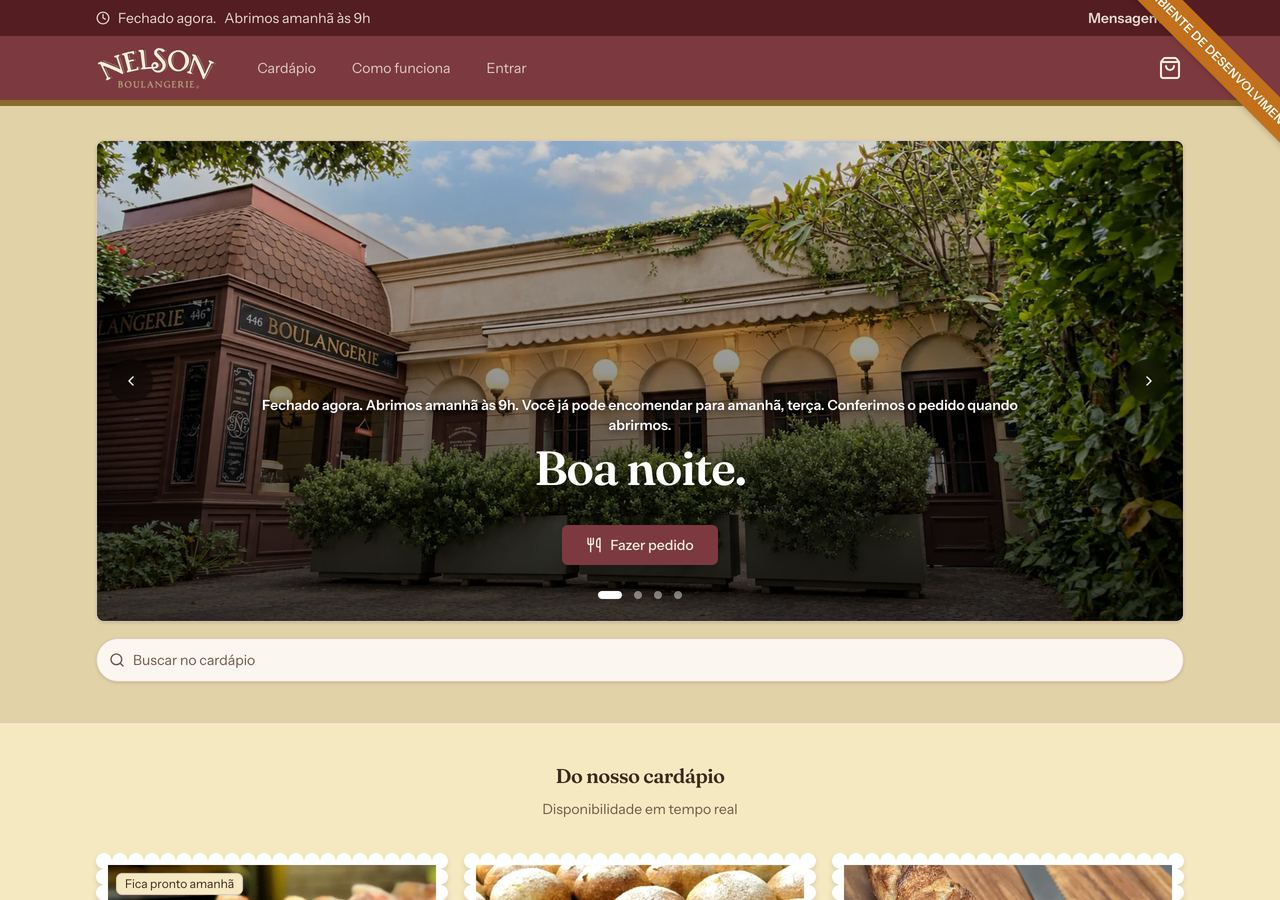
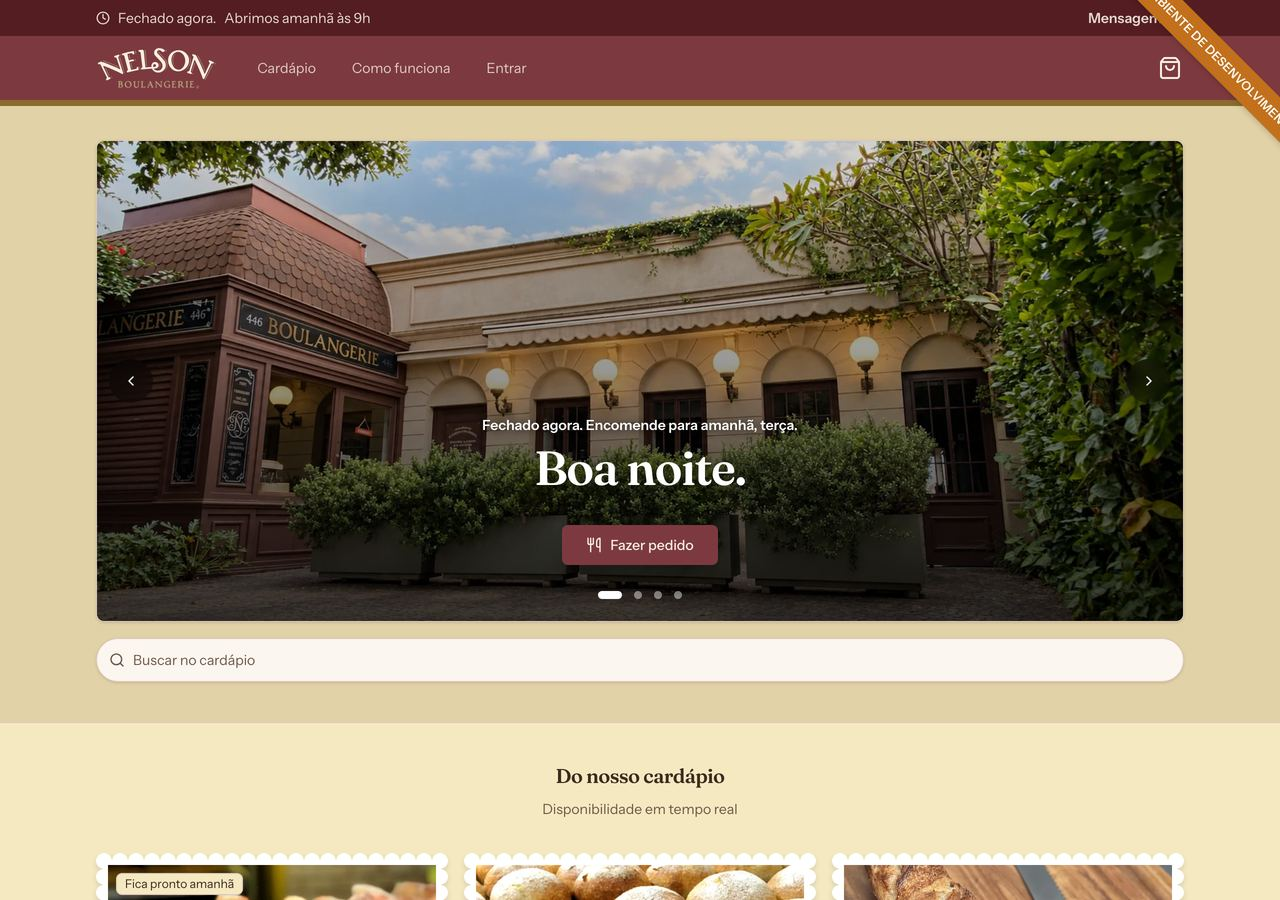
OC-04: frases curtas (dono na prévia: "MUUUITO prolixo")
- Hero fechado: "Fechado agora. Já dá para pedir." / "Fechado agora.
  Encomende para amanhã, terça." A hora da abertura já está na faixa do topo.
- Nada para pedir: "Hoje não há encomenda aberta. Toque em “Me avise” no item."
- Sacola vazia sem encomenda: "Toque em “Me avise” no item do cardápio."
- Faceta: "Encomendas com até {window} de antecedência."
- Capturas e auditoria refeitas (now/preorder/none, 375 e desktop).

Compromisso: DEV-2026-085

Changed region(s): [[0.1875, 0.4356, 0.8125, 0.4978]]

diff --git a/surfaces/storefront-nuxt/app/presentation/home.ts b/surfaces/storefront-nuxt/app/presentation/home.ts
@@ -1,27 +1,28 @@
 import type { OrderingProjection } from '~/types/shopman'
 
-// O topo da home diz o estado da casa E o que dá para fazer, e o "o que dá para
-// fazer" sai de `home.ordering` (OC-04), o resumo das MESMAS promessas que os
-// cards do cardápio dizem. Era uma constante: às 22h, com 0 de 31 itens podendo
-// ir à sacola, a home dizia "Você já pode finalizar o pedido" (laudo da Etapa II,
-// U1). Com a casa fechada, a finalização aceita pedido e pagamento e a casa
-// confere na abertura (ADR-036); a frase usa o mesmo vocabulário do pagamento
-// fora do horário ("conferimos quando abrirmos").
+// O topo da home diz o que dá para fazer, e isso sai de `home.ordering` (OC-04),
+// o resumo das MESMAS promessas que os cards do cardápio dizem. Era uma
+// constante: às 22h, com 0 de 31 itens podendo ir à sacola, a home dizia "Você
+// já pode finalizar o pedido" (laudo da Etapa II, U1). Com a casa fechada, o
+// pedido entra e a casa confere na abertura (ADR-036).
+//
+// Curto de propósito (dono, prévia de 24/11: "MUUUITO prolixo"): a hora da
+// abertura já está na faixa do topo, então aqui vai só "Fechado agora." e o
+// que fazer.
 
-// Algo tem horário hoje (a casa ainda abre hoje): dá para finalizar já.
-export const CLOSED_HERO_HINT = 'Você já pode finalizar o pedido, e conferimos quando abrirmos.'
+// Algo tem horário hoje (a casa ainda abre hoje).
+export const CLOSED_HERO_HINT = 'Já dá para pedir.'
 
-// Nada do cardápio pode ir à sacola: diz isso e aponta o caminho que existe, o
-// "Me avise" de cada item. Nunca promete finalização.
-export const NO_ORDERING_HINT = 'Hoje não há encomenda aberta. No cardápio, toque em “Me avise” no item que você quer.'
+// Nada do cardápio pode ir à sacola: diz isso e aponta o "Me avise" de cada
+// item. Nunca promete finalização.
+export const NO_ORDERING_HINT = 'Hoje não há encomenda aberta. Toque em “Me avise” no item.'
 
 // O primeiro horário é de outro dia: a frase diz qual ("amanhã, terça").
 export function preorderHint (dayLabel: string): string {
-  return `Você já pode encomendar para ${dayLabel}. Conferimos o pedido quando abrirmos.`
+  return `Encomende para ${dayLabel}.`
 }
 
-function orderingHint (ordering: OrderingProjection | null | undefined, statusOpen: boolean): string {
-  if (!ordering) return ''
+function orderingHint (ordering: OrderingProjection, statusOpen: boolean): string {
   if (ordering.state === 'none') return NO_ORDERING_HINT
   if (statusOpen) return ''
   if (ordering.state === 'preorder' && ordering.day_label.trim()) return preorderHint(ordering.day_label.trim())
@@ -31,21 +32,24 @@ function orderingHint (ordering: OrderingProjection | null | undefined, statusOp
 /**
  * A linha acima do título do hero, ou `undefined` quando não há o que dizer.
  *
- * Casa fechada: o estado ("Fechado agora. Abrimos amanhã às 9h") seguido do que
- * dá para fazer, pelo `ordering`. Casa aberta: só quando nada pode ser pedido.
- * Sem `ordering` (resposta sem o campo), só o estado: a frase nunca promete o
- * que a projeção não confirmou.
+ * Nada encomendável (aberta ou fechada): só isso e o "Me avise". Casa fechada
+ * com o que pedir: a primeira frase do estado ("Fechado agora") e o que fazer.
+ * Casa aberta com o que pedir: nada. Sem `ordering` (resposta sem o campo), só
+ * o estado inteiro: a frase nunca promete o que a projeção não confirmou.
  */
 export function heroEyebrow (input: {
   statusOpen: boolean
   statusLabel?: string | null
   ordering?: OrderingProjection | null
 }): string | undefined {
+  const label = input.statusLabel?.trim().replace(/\.+$/, '') || ''
+  if (!input.ordering) {
+    return input.statusOpen || !label ? undefined : `${label}.`
+  }
   const hint = orderingHint(input.ordering, input.statusOpen)
-  if (input.statusOpen) return hint || undefined
-  const label = input.statusLabel?.trim().replace(/\.+$/, '')
-  const parts = [label ? `${label}.` : '', hint].filter(Boolean)
-  return parts.length ? parts.join(' ') : undefined
+  if (input.ordering.state === 'none' || input.statusOpen) return hint || undefined
+  const state = label.split('. ')[0]?.trim()
+  return state ? `${state}. ${hint}` : hint
 }
 
 /**

diff --git a/surfaces/storefront-nuxt/tests/homePresentation.test.ts b/surfaces/storefront-nuxt/tests/homePresentation.test.ts
@@ -14,14 +14,14 @@ const NONE: OrderingProjection = { state: 'none', next_date: null, day_label: ''
 const CLOSED = 'Fechado agora. Abrimos amanhã às 9h'
 
 // Toda frase que convida a pedir (finalizar, encomendar, fazer pedido).
-const ORDER_OFFER = /finalizar|encomendar para|Fazer pedido/
+const ORDER_OFFER = /finalizar|encomendar para|Encomende|dá para pedir|Fazer pedido/
 
 describe('home presentation: o topo diz só o que dá para pedir (OC-04)', () => {
   it('X1: com nada encomendável, a home não oferece finalização, aberta ou fechada', () => {
     const closed = heroEyebrow({ statusOpen: false, statusLabel: CLOSED, ordering: NONE })
     const open = heroEyebrow({ statusOpen: true, statusLabel: 'Aberto até 18h', ordering: NONE })
 
-    expect(closed).toBe(`Fechado agora. Abrimos amanhã às 9h. ${NO_ORDERING_HINT}`)
+    expect(closed).toBe('Hoje não há encomenda aberta. Toque em “Me avise” no item.')
     expect(open).toBe(NO_ORDERING_HINT)
     for (const text of [closed, open]) {
       expect(text).not.toMatch(ORDER_OFFER)
@@ -31,22 +31,22 @@ describe('home presentation: o topo diz só o que dá para pedir (OC-04)', () =>
     expect(closedHeroCtaLabel(NONE)).toBeUndefined()
   })
 
-  it('casa fechada que ainda abre hoje: dá para finalizar já, e a casa confere na abertura', () => {
+  it('casa fechada que ainda abre hoje: já dá para pedir (a hora da abertura fica na faixa do topo)', () => {
     expect(heroEyebrow({ statusOpen: false, statusLabel: 'Fechado agora. Abrimos hoje às 7h', ordering: NOW }))
-      .toBe('Fechado agora. Abrimos hoje às 7h. Você já pode finalizar o pedido, e conferimos quando abrirmos.')
+      .toBe('Fechado agora. Já dá para pedir.')
     expect(closedHeroCtaLabel(NOW)).toBe('Fazer pedido')
   })
 
   it('casa fechada com encomenda para outro dia: a frase diz o dia', () => {
     expect(heroEyebrow({ statusOpen: false, statusLabel: `${CLOSED}.`, ordering: PREORDER }))
-      .toBe('Fechado agora. Abrimos amanhã às 9h. Você já pode encomendar para amanhã, quarta. Conferimos o pedido quando abrirmos.')
-    expect(preorderHint('quinta, 19/11')).toBe('Você já pode encomendar para quinta, 19/11. Conferimos o pedido quando abrirmos.')
+      .toBe('Fechado agora. Encomende para amanhã, quarta.')
+    expect(preorderHint('quinta, 19/11')).toBe('Encomende para quinta, 19/11.')
     expect(closedHeroCtaLabel(PREORDER)).toBe('Fazer pedido')
   })
 
   it('preorder sem o dia escrito cai na frase sem data, nunca numa data inventada', () => {
     expect(heroEyebrow({ statusOpen: false, statusLabel: CLOSED, ordering: { ...PREORDER, day_label: ' ' } }))
-      .toBe(`Fechado agora. Abrimos amanhã às 9h. ${CLOSED_HERO_HINT}`)
+      .toBe(`Fechado agora. ${CLOSED_HERO_HINT}`)
   })
 
   it('casa aberta com o que pedir: o topo não ganha linha extra', () => {
@@ -61,10 +61,11 @@ describe('home presentation: o topo diz só o que dá para pedir (OC-04)', () =>
     expect(closedHeroCtaLabel(undefined)).toBeUndefined()
   })
 
-  it('frases sem travessão e sem "finaliza quando abrirmos" (beta 06/11)', () => {
+  it('frases curtas, sem travessão e sem "finaliza quando abrirmos" (beta 06/11; dono 24/11: prolixo)', () => {
     for (const text of [CLOSED_HERO_HINT, NO_ORDERING_HINT, preorderHint('amanhã, quarta')]) {
       expect(text).not.toMatch(/[—–]/)
       expect(text).not.toMatch(/finaliza quando abrirmos/)
+      expect(text.split(/\s+/).length).toBeLessThanOrEqual(12)
     }
   })
 })

diff --git a/surfaces/storefront-nuxt/tests/projectionContracts.test.ts b/surfaces/storefront-nuxt/tests/projectionContracts.test.ts
@@ -138,8 +138,8 @@ describe('contrato compartilhado: storefront_ordering (OC-04)', () => {
     expect(Object.keys(orderingContract.home).sort()).toEqual(['day_label', 'next_date', 'state'])
     expect(orderingContract.home.state).toBe('now')
     expect(heroEyebrow({ statusOpen: false, statusLabel: 'Fechado agora', ordering: orderingContract.home }))
-      .toBe('Fechado agora. Você já pode finalizar o pedido, e conferimos quando abrirmos.')
+      .toBe('Fechado agora. Já dá para pedir.')
     const none: OrderingProjection = { ...orderingContract.home, state: 'none', next_date: null, day_label: '' }
-    expect(heroEyebrow({ statusOpen: false, statusLabel: 'Fechado agora', ordering: none })).not.toMatch(/finalizar/)
+    expect(heroEyebrow({ statusOpen: false, statusLabel: 'Fechado agora', ordering: none })).not.toMatch(/pedir|finalizar|Encomende/)
   })
 })

diff --git a/shopman/shop/omotenashi/copy.py b/shopman/shop/omotenashi/copy.py
@@ -154,7 +154,7 @@ OMOTENASHI_DEFAULTS: dict[str, dict[str, dict[str, CopyEntry]]] = {
         WILDCARD: {
             WILDCARD: CopyEntry(
                 title="Hoje não há encomenda aberta",
-                message="No cardápio, toque em “Me avise” no item que você quer, e avisamos quando ele voltar.",
+                message="Toque em “Me avise” no item do cardápio.",
             ),
         },
     },
@@ -402,7 +402,7 @@ OMOTENASHI_DEFAULTS: dict[str, dict[str, dict[str, CopyEntry]]] = {
         WILDCARD: {WILDCARD: CopyEntry(message="Peça ao atendente. Preparamos na hora.")},
     },
     "HOW_PREORDER_MESSAGE": {
-        WILDCARD: {WILDCARD: CopyEntry(message="Escolha o dia ao finalizar o pedido. Encomendas com até {window} de antecedência.")},
+        WILDCARD: {WILDCARD: CopyEntry(message="Encomendas com até {window} de antecedência.")},
     },
     "HOW_TRACKING_MESSAGE": {
         WILDCARD: {WILDCARD: CopyEntry(message="Use seu telefone para consultar o status dos pedidos a qualquer momento.")},

diff --git a/shopman/storefront/tests/test_ordering_projection.py b/shopman/storefront/tests/test_ordering_projection.py
@@ -238,8 +238,8 @@ def test_x1_nada_encomendavel_a_home_e_a_sacola_nao_oferecem_finalizar():
 
     O cenário do laudo: 22h, casa fechada, todo item esgotado e nenhuma fornada
     planejada. O card de cada item não acende o botão, e a home e a sacola não
-    podem dizer o contrário: nem a faceta "Escolha o dia ao finalizar o pedido.
-    Encomendas com até 30 dias" de "Como funciona", que o laudo mediu na home.
+    podem dizer o contrário: nem a faceta "Encomendas com até 30 dias de
+    antecedência" de "Como funciona", que o laudo mediu na home.
     A frase do topo do hero mora no Nuxt e é provada no vitest
     (``homePresentation.test.ts``).
     """

diff --git a/shopman/storefront/presentation/home.py b/shopman/storefront/presentation/home.py
@@ -487,8 +487,7 @@ def _without_preorder_offer(
 ) -> HomeSectionsCopyProjection:
     """Sem nada encomendável, a faceta de encomenda sai de "Como funciona" (OC-04, X1).
 
-    "Escolha o dia ao finalizar o pedido. Encomendas com até 30 dias de
-    antecedência" convida a encomendar; o laudo da Etapa II (U1) a mediu na home
+    "Encomendas com até 30 dias de antecedência" convida a encomendar; o laudo da Etapa II (U1) a mediu na home
     às 22h, com 0 de 31 itens podendo ir à sacola. Com ``ordering.state ==
     "none"`` ela some; com algo encomendável, fica como está.
     """
